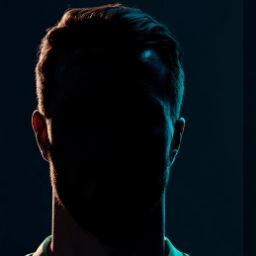
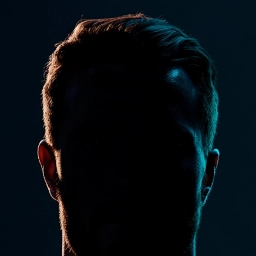
fix(ui): recentre portraits, shrink club chip, unclip the 360px header title
Görsel düzeltme turu. Ekranın mantığı (portföy özeti, filtreler, durum
öncelikleri, renk rayları, gerçek veri eşlemeleri, oyuncu detay yönlendirmesi)
değişmedi.

1) Portreler kaynaktan YENİDEN kırpıldı
---------------------------------------
Kök neden ölçüldü: önceki tur kaynağı 6x517.33'lük eşit karolara bölüyordu, ama
özneler o ızgarada durmuyor — ~543px aralıkla diziliyorlar. Fark sütun sütun
birikiyordu ve baş merkezi karo merkezine göre -49'dan +97'ye monoton kayıyordu,
HER İKİ satırda da. Bu tur karo kavramı bırakıldı: her özne kendi ölçülen baş
merkezinden kırpılıyor, güvenli sınırlar komşu öznelerin merkez orta noktaları.

Segmentasyon da düzeltildi. Ham tarama satırı gösterdi: silüet 0-5, arka plan
8-17, kenar ışığı 80-240. Arka plana göreli eşikler yatay+dikey gradyan yüzünden
baş genişliğini 119-223 arasında saçmalatıyordu; mutlak eşikle (L<6) 222-265'e
oturdu. Ayrıca saç tepesi KOYU maskeyle bulunamıyordu — saç uçları kenar ışığıyla
parlak, yani eşiğin tamamen dışında. Bu yüzden önceki kırpma #1, #5, #6, #7 ve
#12'de saçı kesiyordu. Maske artık birleşik (belirgin koyu VEYA belirgin parlak),
ve alt satırın tepesindeki siyah dikiş bandı ayrıca atlanıyor.

Kare boyutu portre başına: baş merkezli kalabilen EN BÜYÜK kare. Boyut 344-552
arasında değişiyor; öncelik merkezleme, çünkü brief sırayı böyle veriyor.

TESLİM EDİLEN 256x256 dosyalar üzerinde ölçüldü (üretim boru hattında değil):

           merkez sapması        saç üst kenara değiyor
[…]

Changed region(s): [[0.0938, 0.0, 0.875, 1.0]]

diff --git a/css/themes/saha.css b/css/themes/saha.css
@@ -1258,11 +1258,15 @@ body[data-view="dash"] .hmRise{min-height:calc(68px + clamp(0px, calc(20.8vh - 1
   box-shadow:inset 0 0 0 1px var(--cl-t),inset 0 0 0 2px rgba(3,7,15,.35)}
 /* Köşe kulüp rozeti: yüzün üstüne değil, sağ alt köşeye. Portre yoksa görünmez. */
 .clAvTm{display:none}
-.clAvImg+.clAvTm{display:block;position:absolute;right:-3px;bottom:-3px;z-index:2}
-.clAvTm>.tb{width:20px;height:20px;border-radius:6px;font-size:7.5px;
-  box-shadow:0 0 0 2px var(--sur)}
-/* 22px rozette renk şeridi orantısını koru; ince kalırsa kaybolur */
-.clAvTm>.tb>i{height:5px}
+/* Köşe rozeti: görünür 18px, portrenin sağ alt köşesinde, dışarı yalnız ~2px
+   taşar. Önceki tur 20px + 2px halka + 3px kayma ile 24px'lik bir leke yapıyor
+   ve portrenin yakasını örtüyordu (av-closeup'ta görüldü). Halka 1.5px'e indi:
+   rozeti karttan ayırmaya yetiyor, kalın bir dış gölge bırakmıyor. */
+.clAvImg+.clAvTm{display:block;position:absolute;right:-1px;bottom:-1px;z-index:2}
+.clAvTm>.tb{width:16px;height:16px;border-radius:5px;font-size:6.5px;letter-spacing:0;
+  box-shadow:0 0 0 1.5px var(--sur)}
+/* 18px rozette renk şeridi %22 oranında 4px kalıyor — daha incesi kayboluyor */
+.clAvTm>.tb>i{height:3.5px}
 
 /* Kart artık 62px portre taşıyor: metin sütununun payı 46px rozetteki kadar
    kalsın diye boşluk bir tık daralıyor. 360px'te ölçüldü, taşma yok. */
@@ -1270,6 +1274,35 @@ body[data-view="dash"] .hmRise{min-height:calc(68px + clamp(0px, calc(20.8vh - 1
 @media (max-width:365px){
   .clBadge.port{width:58px;height:58px}
   .clBadge.port>.tb{width:58px;height:58px}
-  .clAvTm>.tb{width:20px;height:20px;border-radius:6px;font-size:7.5px}
+  .clAvTm>.tb{width:15px;height:15px;border-radius:4px;font-size:6px}
   .clCard{gap:9px}
+}
+
+/* ===================== ÜST ÇUBUK · 360px BAŞLIK BÜTÇESİ (yalnız saha/müşteriler)
+   Sorun ölçüldü, tahmin edilmedi: 360px'te .hrow iç genişliği 336px ve bunun
+   238'ini sabit kontroller (kasa 80 + itibar 47 + ayarlar 36 + Devam 75), 32'sini
+   de dört boşluk (4x8) yiyor. Başlığa 66px kalıyor, "Müşteriler" ise 15px'te
+   75px istiyor — tam 9px açık. Ellipsis bu açığı gizliyordu.
+
+   Çözüm açığı kapatmak: yatay dolgu 12→10, boşluk 8→6, kasa/itibar rozetlerinin
+   iç dolgusu 9→7. Kazanç 4+8+8 = 20px; başlık 86px'e çıkıyor. Üstüne başlık
+   punto 15→14 (brief'in izin verdiği kontrollü küçültme) ile metin ~70px'e
+   iniyor, yani 16px pay kalıyor ve alt satır ("Sezon 1 · Hafta 14", 66px) da
+   tek satırda duruyor.
+
+   Hiçbir kontrol kaldırılmadı, küçültülmedi ya da üst üste bindirilmedi; Devam
+   düğmesinin ölçüsüne dokunulmadı. Kural yalnız 374px altında ve yalnız
+   müşteriler ekranında geçerli — başka hiçbir ekran ve tema etkilenmiyor. */
+@media (max-width:374px){
+  body[data-view="clients"] header{padding-left:10px;padding-right:10px}
+  body[data-view="clients"] .hrow{gap:5px}
+  body[data-view="clients"] .hstat{padding:6px 7px}
+  body[data-view="clients"] .htitle .t1{font-size:14px;letter-spacing:-.02em}
+  /* Devam'ın yatay dolgusu 15→12: yüksekliğine ve dokunma hedefine dokunmadan
+     6px daha açıyor, sütun 92px'e çıkıyor. */
+  body[data-view="clients"] #btnNext{padding:0 12px}
+  /* Alt satır tek satırda kalmalı. 10.5px + .05em harf aralığıyla 18 karakter
+     107px istiyor ve sütuna sığmıyordu (ölçüldü; ilk denemede "SEZON 1 · HAFTA .."
+     diye kesildi). Harf aralığı sıfırlanıp punto 9.5'e inince ~88px'e düşüyor. */
+  body[data-view="clients"] .htitle .t2{font-size:9px;letter-spacing:0;white-space:nowrap}
 }

diff --git a/js/ui.js b/js/ui.js
@@ -441,7 +441,7 @@ function clAvatar(p,tm){
   if(!usePortraits())return `<span class="clBadge">${tmBadge(tm,46)}</span>`;
   return `<span class="clBadge port">${tmBadge(tm,62)}<img class="clAvImg"
     src="${portraitOf(p.id)}" alt="" aria-hidden="true" width="62" height="62"
-    decoding="async" onerror="this.remove()"><span class="clAvTm">${tmBadge(tm,20)}</span></span>`;
+    decoding="async" onerror="this.remove()"><span class="clAvTm">${tmBadge(tm,16)}</span></span>`;
 }
 function clCard(p){
   const st=clState(p),tm=teamOf(p);
